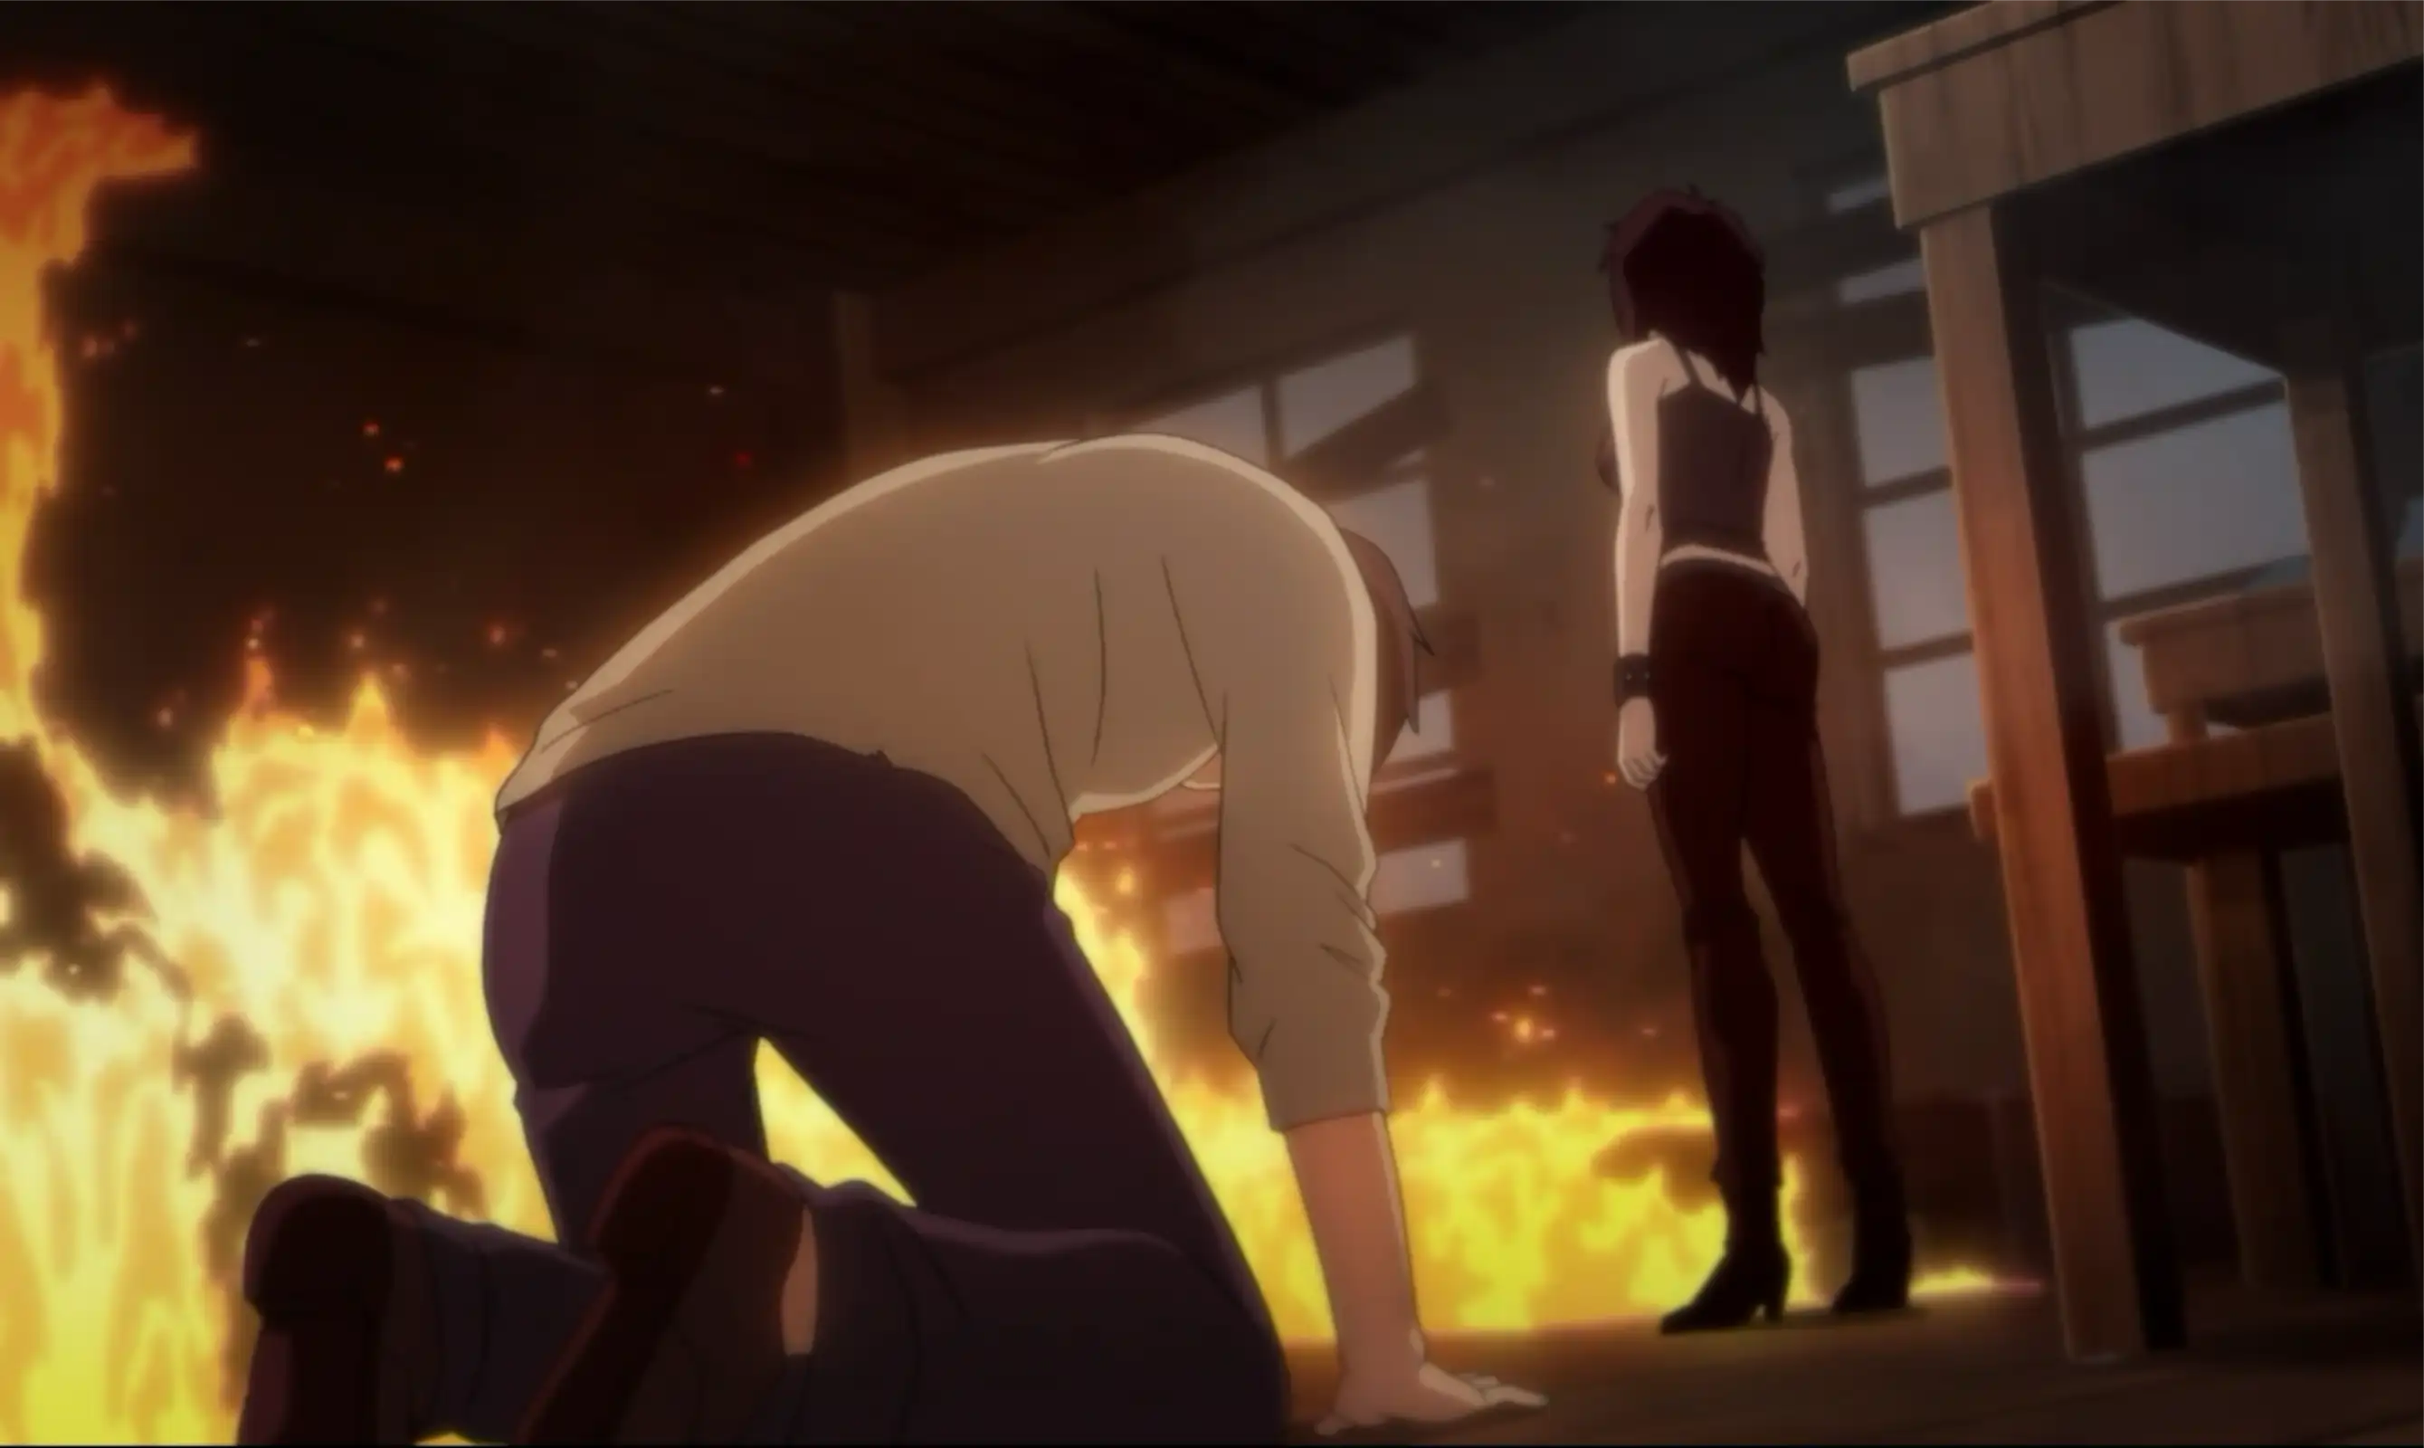
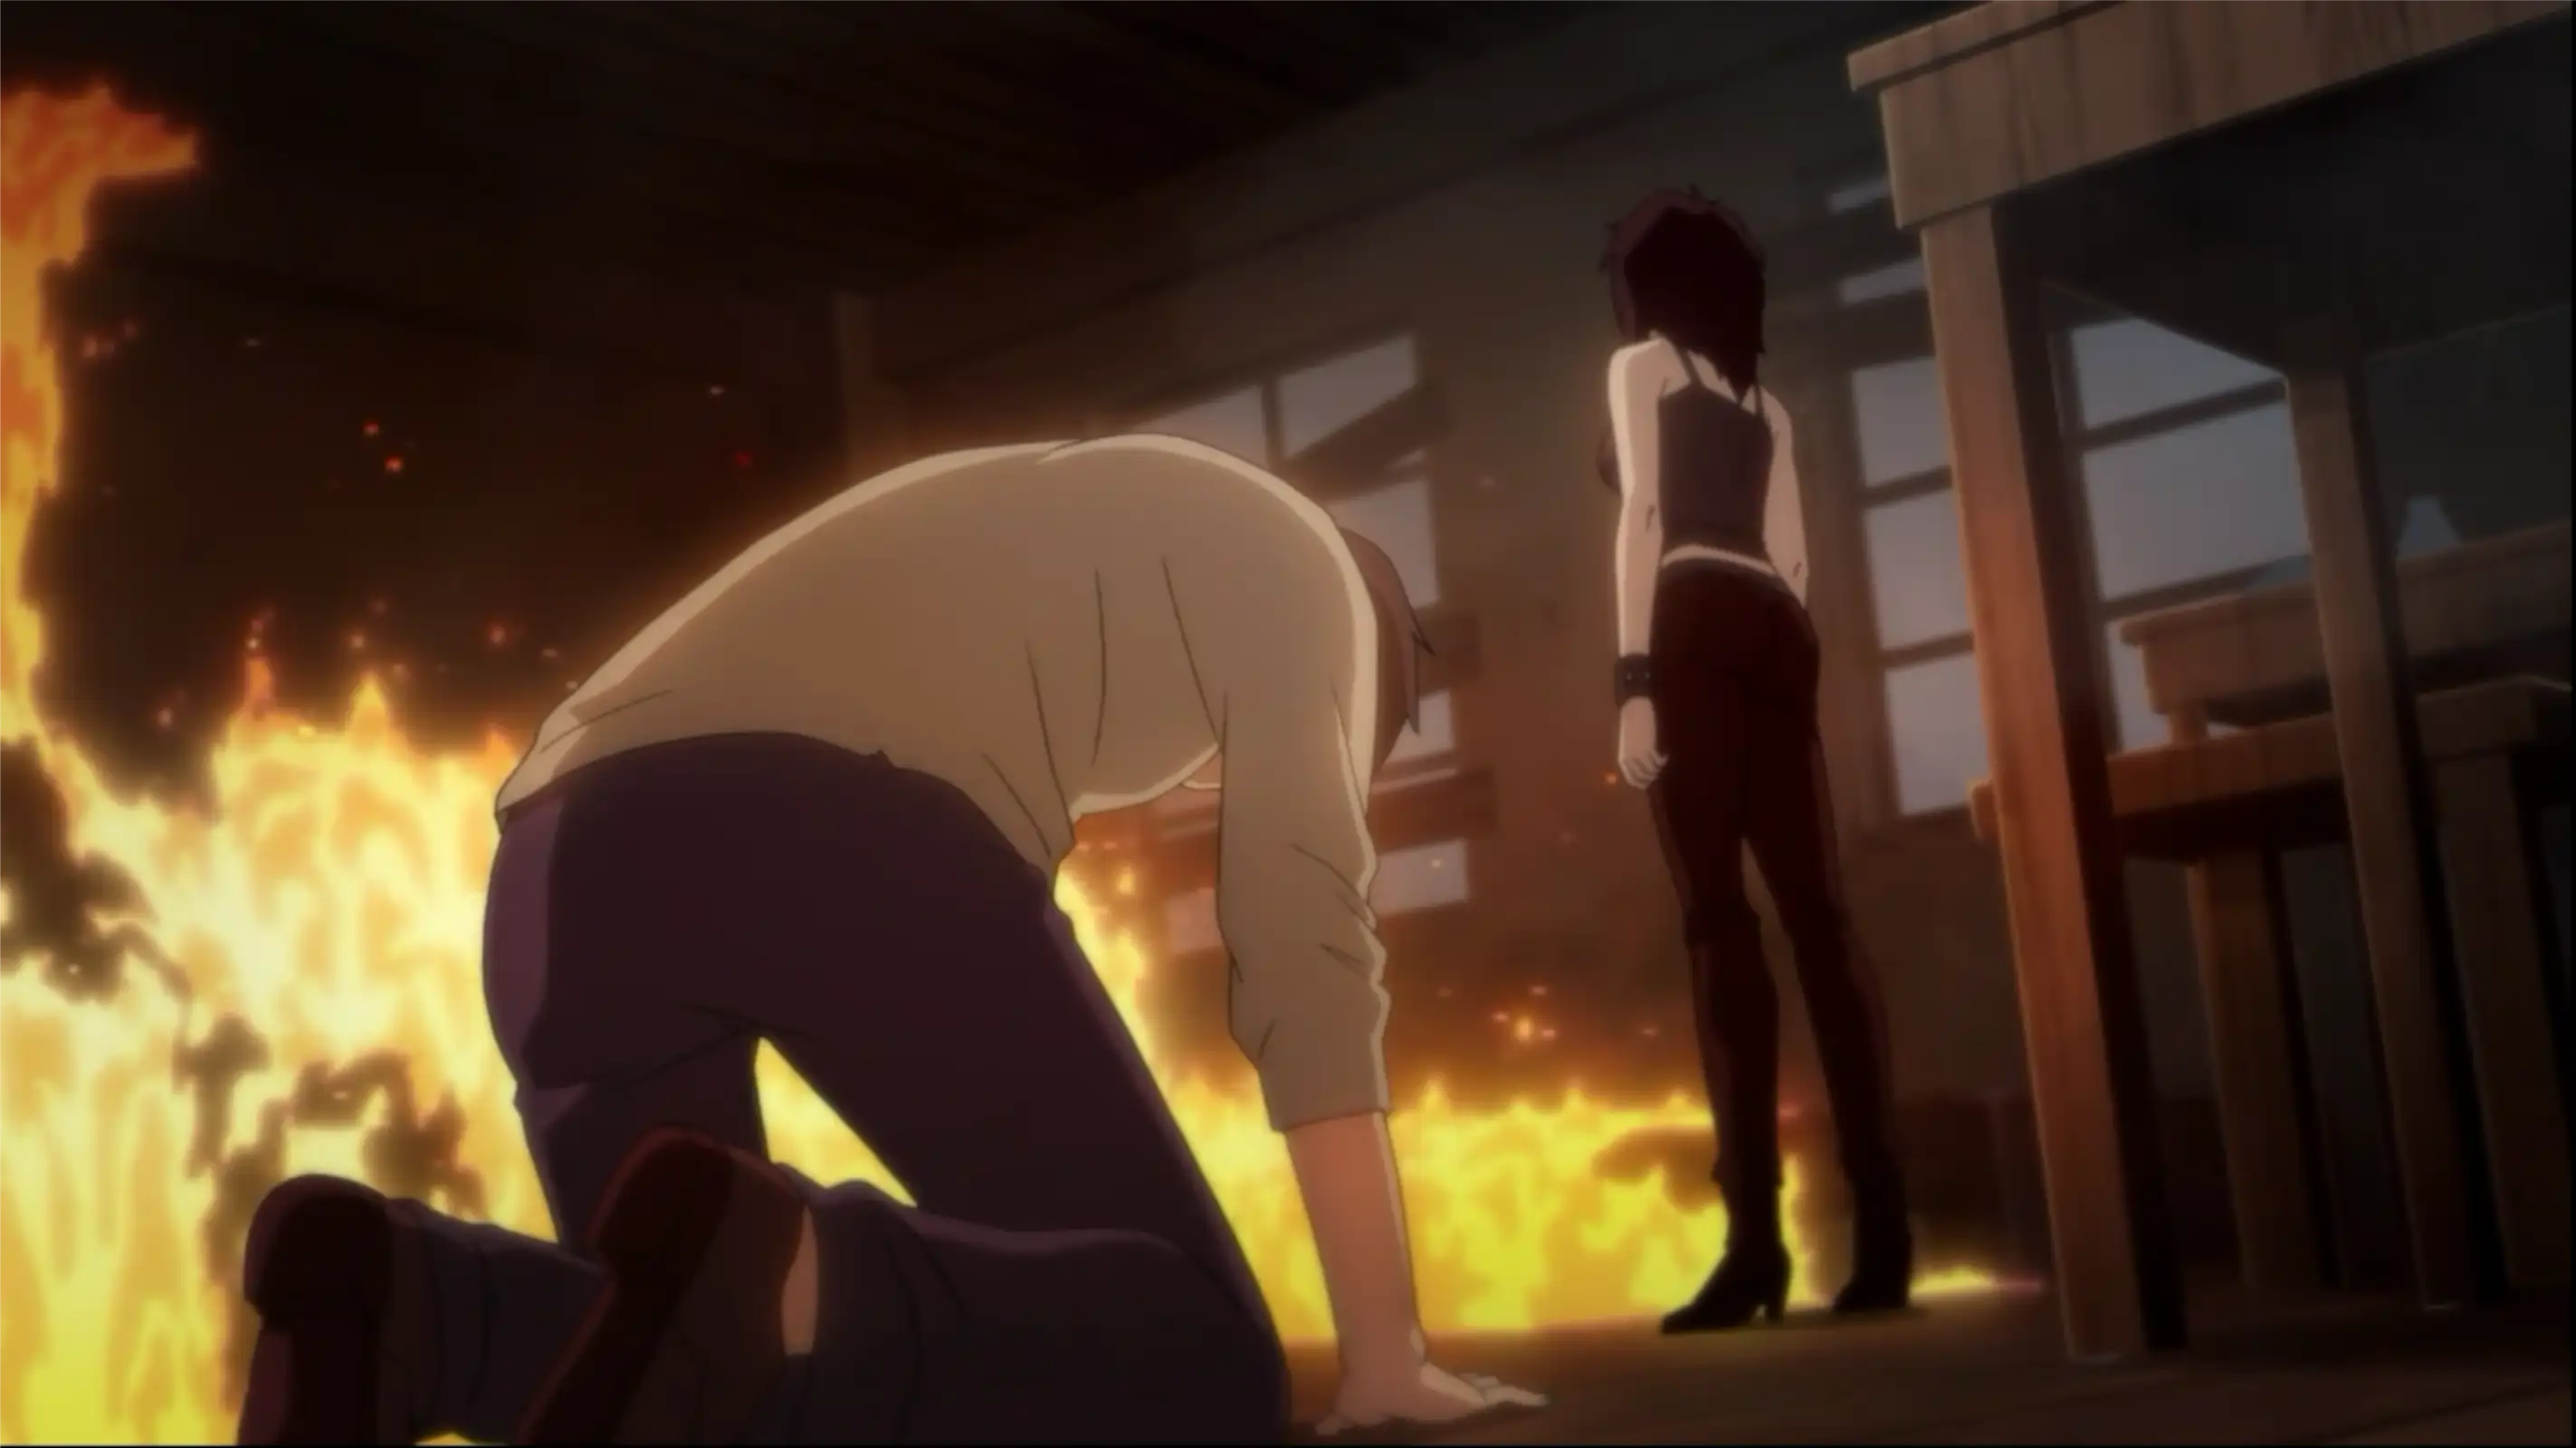
se modifican las imágenes del index

diff --git a/index.html b/index.html
@@ -10,7 +10,7 @@
   <link rel="stylesheet" href="https://cdn.jsdelivr.net/npm/aos@2.3.4/dist/aos.css">
 </head>
 
-<body class="fade-page">
+<body class="fade-page pagina-especial">
   <main class="contenedor" id="contenido-principal">
     <div class="titulo-principal">
       <h1>Showcase: Death</h1>
@@ -27,7 +27,7 @@
       
       <article class="capitulo-item">
         <a href="capitulos/SegundoActo.html">
-          <img src="assets/img/cap2/fumando.webp" alt="Omata fumando y una chica misteriosa atrás">
+          <img src="assets/img/cap2/acto2.webp" alt="Omata fumando y una chica misteriosa atrás">
           <h2>Segundo Acto – Sombras en el Pasillo | Encuentro</h2>
         </a>
       </article>
@@ -48,14 +48,14 @@
 
       <article class="capitulo-item">
         <a href="capitulos/QuintoActo.html">
-          <img src="assets/img/cap5/demoniosInsisten.webp" alt="Eeeee">
+          <img src="assets/img/cap5/acto5.webp" alt="Eeeee">
           <h2>Quinto Acto – Bajo la Mirada del Lienzo | Renacer</h2>
         </a>
       </article>
 
       <article class="capitulo-item">
         <a href="capitulos/SextoActo.html">
-          <img src="assets/img/cap6/tiempoDetenido.webp" alt="Omata pintando rodeado de sus demonios">
+          <img src="assets/img/cap6/acto6.webp" alt="Omata pintando rodeado de sus demonios">
           <h2>Sexto Acto - Donde el Tiempo se Quiebra | Revelación</h2>
         </a>
       </article>
@@ -69,7 +69,7 @@
       
       <article class="capitulo-item">
         <a href="capitulos/OctavoActo.html">
-          <img src="assets/img/cap8/bomberos.webp" alt="Bomberos mirando el cuadro que pintó Omata">
+          <img src="assets/img/cap8/acto8.webp" alt="Bomberos mirando el cuadro que pintó Omata">
           <h2>Octavo Acto - Lo que Sobrevive al Fuego | Legado</h2>
         </a>
       </article>      

diff --git a/css/estilos.css b/css/estilos.css
@@ -24,14 +24,14 @@ body::before {
   content: "";
   position: absolute;
   inset: 0;
-  background: url('/assets/img/fondo.png') no-repeat center center;
+  background: url('/assets/img/fondo.webp') no-repeat center center;
   background-size: cover;
   filter: brightness(0.7);
   z-index: -1;
 }
 
 body.pagina-especial::before {
-  background: url('/assets/img/fondo002.png') no-repeat center center;
+  background: url('/assets/img/fondo2.webp') no-repeat center center;
   background-size: cover;
   filter: brightness(0.7);
 }
